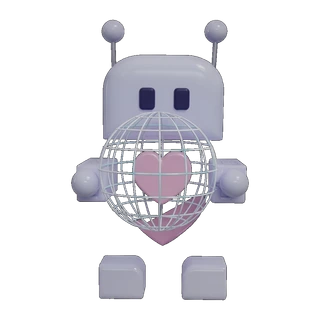
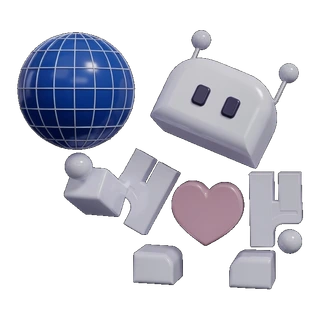
feat(open-web-vectors): filled 🌐 orb above the raised right hand
Body stays facing us; the globe floats over his right hand and the
head tilts to follow it. Dropped the hollow cage.

diff --git a/site/templates/open-web-vectors.html b/site/templates/open-web-vectors.html
@@ -64,8 +64,8 @@
         </g>
       </svg>
       <div class="owv-orbit-scrim"></div>
-      <img class="owv-orbit-robot" src="/images/robot-orbit-520.webp?v=wire"
-           srcset="/images/robot-orbit-320.webp?v=wire 320w, /images/robot-orbit-520.webp?v=wire 520w"
+      <img class="owv-orbit-robot" src="/images/robot-orbit-520.webp?v=orb"
+           srcset="/images/robot-orbit-320.webp?v=orb 320w, /images/robot-orbit-520.webp?v=orb 520w"
            sizes="200px" width="520" height="520" alt="" loading="lazy" decoding="async">
     </div>
     <div class="container">
